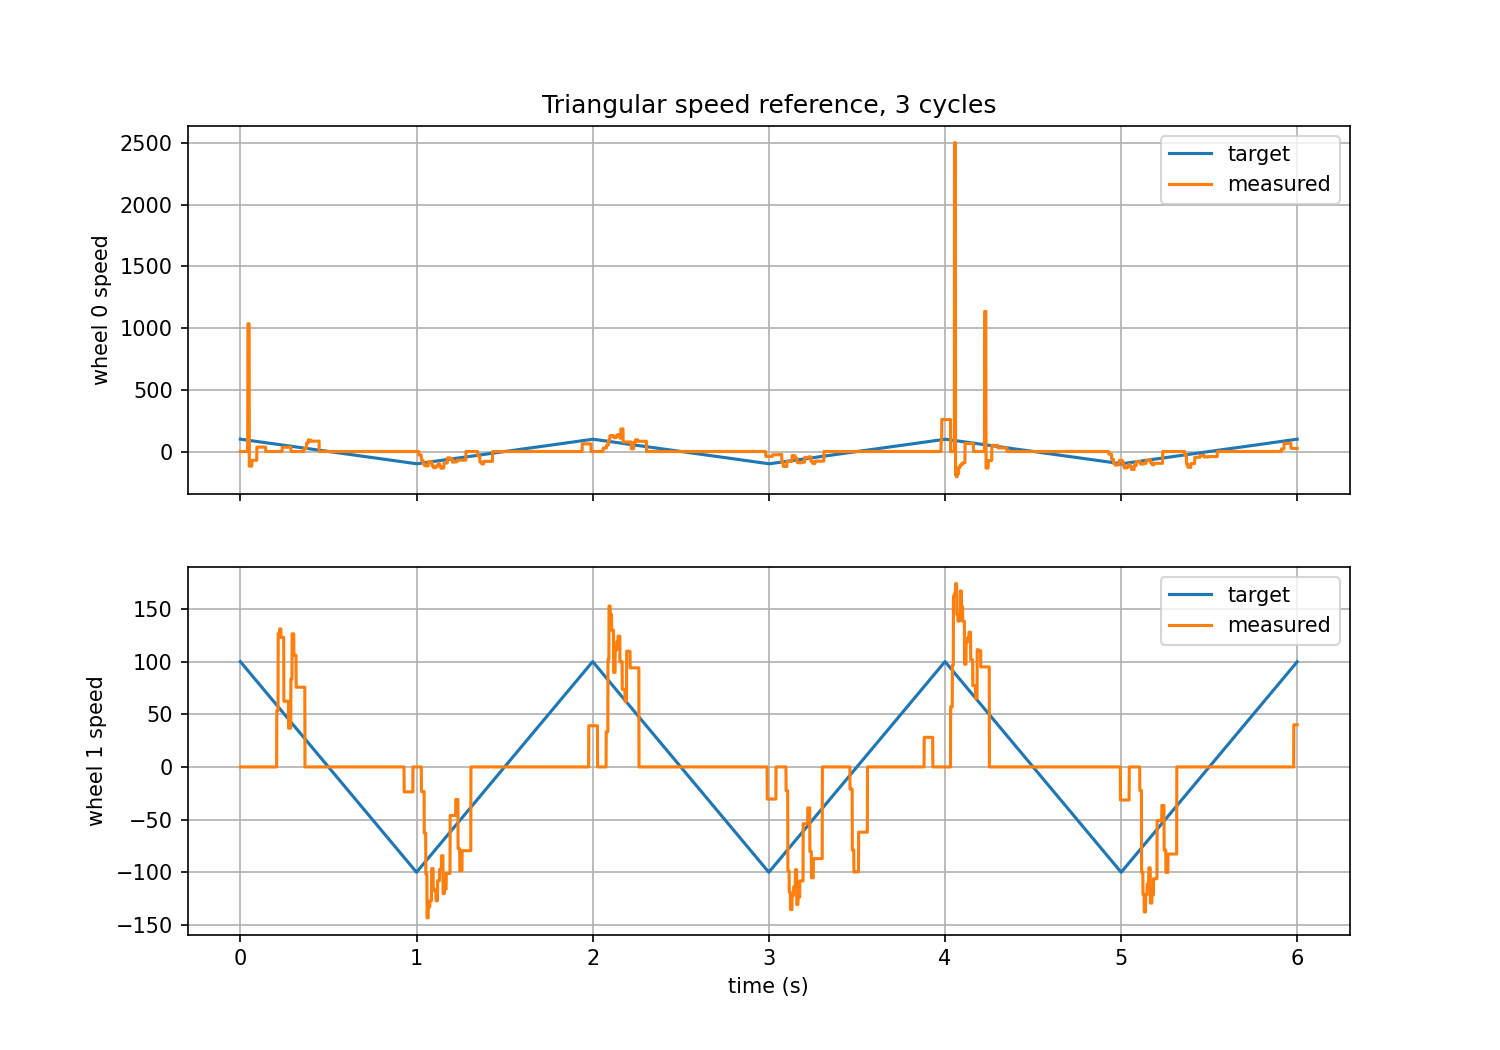
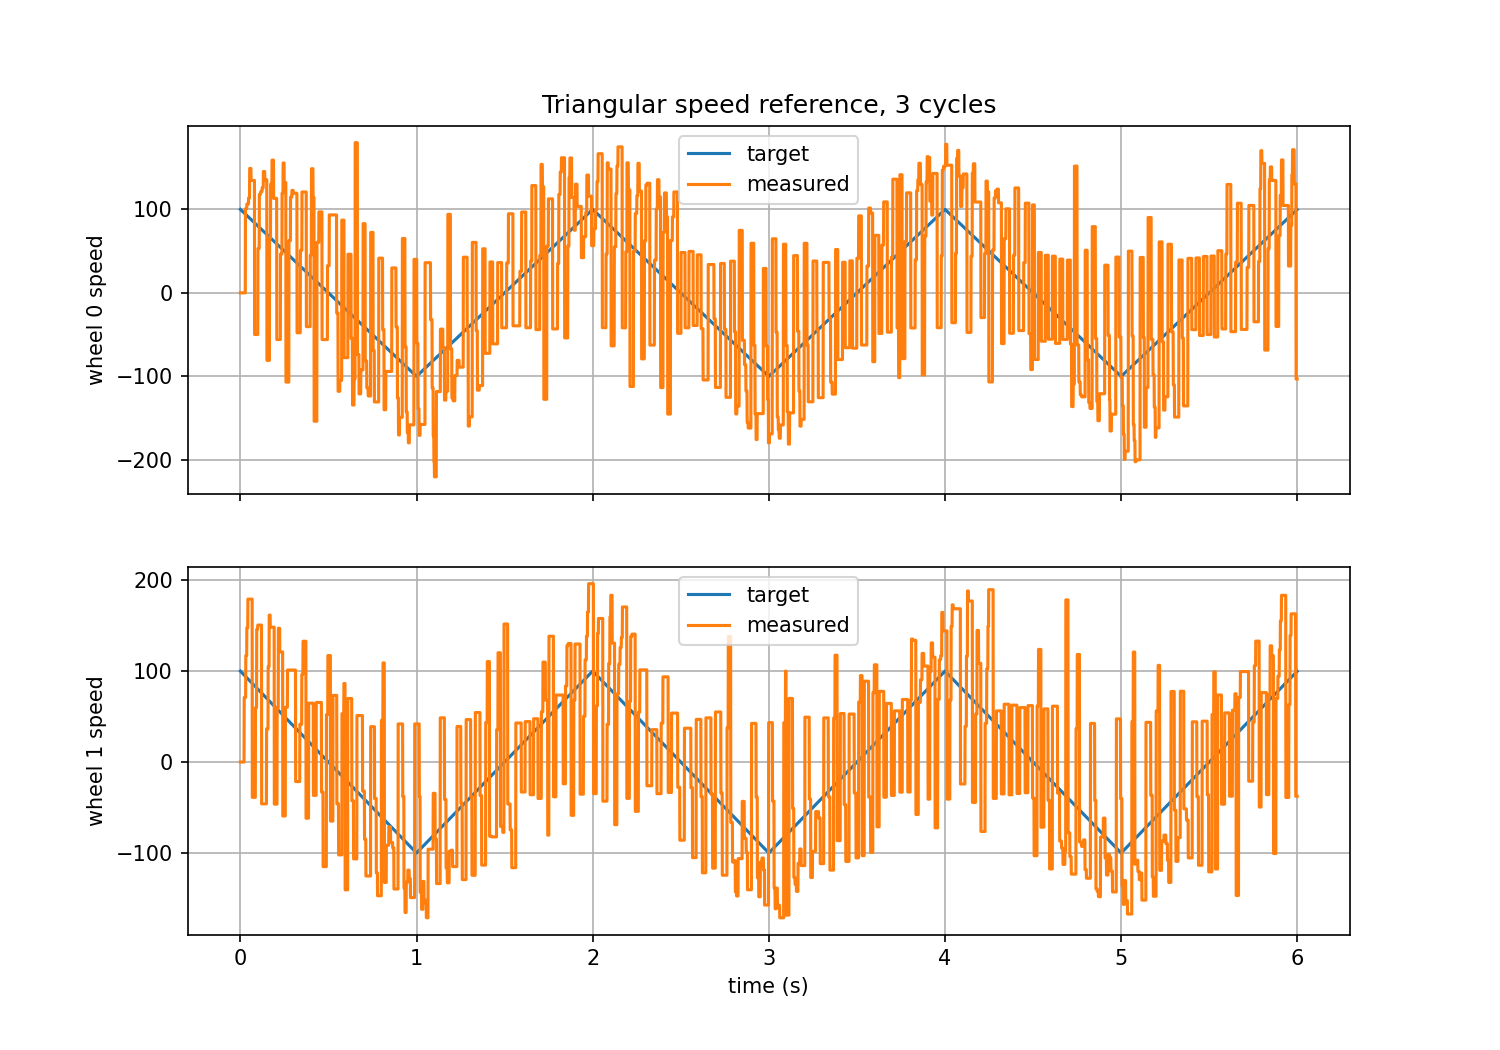
Lab 04: deadband compensation values, speed control rerun with compensation, report

diff --git a/modules/speed_control.c b/modules/speed_control.c
@@ -23,9 +23,11 @@
 #define NUM_MOTORS 2
 #define DT         0.001      /* loop period, seconds (1 ms) */
 
-/* ---- TODO: fill in from your Part 3 results, one entry per wheel -------- */
-static const double DEADBAND_POS[NUM_MOTORS] = { 0.00, 0.00 };  /* positive_deadband */
-static const double DEADBAND_NEG[NUM_MOTORS] = { 0.00, 0.00 };  /* negative_deadband (magnitude) */
+/* ---- Deadband from the Part 3 run (lab_04/deadband.csv, 10/21 13:03) ----
+ * Smallest duty that moved each wheel (0.02 steps). Wheel 1 starts moving
+ * at a lower duty in reverse (0.04) than forward (0.06). */
+static const double DEADBAND_POS[NUM_MOTORS] = { 0.06, 0.06 };  /* positive_deadband */
+static const double DEADBAND_NEG[NUM_MOTORS] = { 0.06, 0.04 };  /* negative_deadband (magnitude) */
 
 /* ---- Gains: duty per (edge/s). Starting point from the Lab 04 step response:
  * plant gain K ~ 6100 edges/s per duty, time constant tau ~ 0.04 s.
